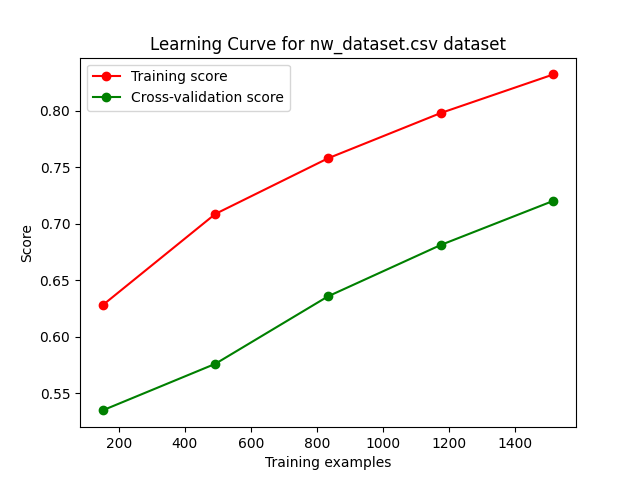
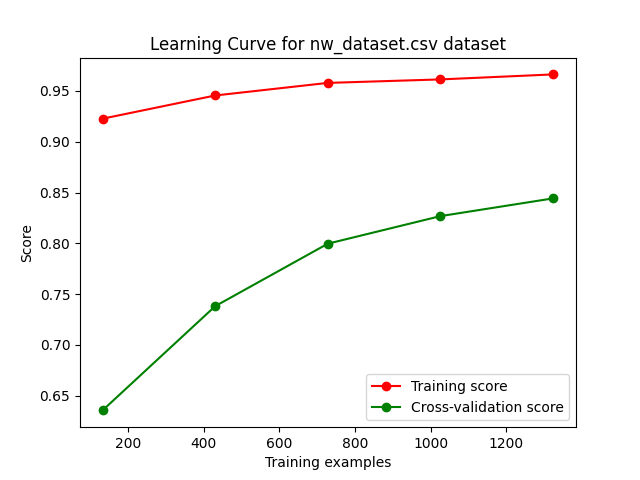
update png

diff --git a/TP2/disambiguation/test.py b/TP2/disambiguation/test.py
@@ -14,7 +14,7 @@ from nltk.stem import LancasterStemmer
 from nltk.tokenize import word_tokenize
 from openpyxl import Workbook
 from nltk.corpus import stopwords
-from sklearn.model_selection import cross_validate
+from sklearn.model_selection import cross_validate, RandomizedSearchCV
 from joblib import dump, load
 from sklearn.ensemble import RandomForestClassifier
 from sklearn import svm
@@ -45,10 +45,10 @@ CONFIG = {
         'mlp': {
             'solver': 'adam',  # ['lbfgs', 'sgd', 'adam']
             'hidden_layer_sizes': (50, 100)
-            , 'activation': 'tanh'  # ['relu','logistic','tanh']
+            , 'activation': 'relu'  # ['relu','logistic','tanh']
         },
         'dt': {
-            'depth': 50
+            'depth': 500
         }},
     'nw': {
         'filename': 'nw_dataset.csv',
@@ -69,7 +69,7 @@ CONFIG = {
         'mlp': {
             'solver': 'adam',  # ['lbfgs', 'sgd', 'adam']
             'hidden_layer_sizes': (50, 100),
-            'activation': 'tanh'  # ['relu','logistic','tanh']
+            'activation': 'relu'  # ['relu','logistic','tanh']
         },
         'dt': {
             'depth': 500
@@ -293,15 +293,14 @@ models = ['naive_bayes', 'decision_tree', 'random_forest', 'svm', 'mlp']
 # Draw the learing curve for each algorithm
 def draw_learning_curve(dataset, classifier):
     # load data
-    df = pd.read_csv(CONFIG[dataset]['filename'], header=None)
-    X = df.iloc[:, 1]
-    y = df.iloc[:, 0]
-    # split data into training and test sets
-    X_train, X_test, y_train, y_test = train_test_split(X, y, test_size=0.2, random_state=0)
-    # vectorize the text
-    vectorizer = TfidfVectorizer()
-    X_train = vectorizer.fit_transform(X_train)
-    X_test = vectorizer.transform(X_test)
+    y = data[0].values
+    X = data[1]
+    if CONFIG[current_dataset]['vectorizer'] == 'count':
+        vectorizer = CountVectorizer(ngram_range=(1, 2))
+    else:
+        vectorizer = TfidfVectorizer(ngram_range=(1, 2))
+    X = vectorizer.fit_transform(X)
+    X_train, X_test, y_train, y_test = train_test_split(X, y, test_size=0.3, random_state=0)
     # draw the learning curve
     train_sizes, train_scores, test_scores = learning_curve(classifier, X_train, y_train, cv=5, n_jobs=-1,
                                                             train_sizes=np.linspace(.1, 1.0, 5))
@@ -315,6 +314,9 @@ def draw_learning_curve(dataset, classifier):
     plt.ylabel('Score')
     plt.savefig('img/' + CONFIG[dataset]['filename'] + '_' + classifier.__class__.__name__ + '.png')
     plt.clf()
+
+
+# Draw comparison of the accuracy curve of each algorithm
 
 
 
@@ -335,7 +337,13 @@ for current_dataset in datasets:
         vectorizer = TfidfVectorizer(ngram_range=(1, 2))
     X = vectorizer.fit_transform(X)
     X_train, X_test, y_train, y_test = train_test_split(X, y, test_size=0.3, random_state=0)
+
+    names = []
+    scores = []
+
     for current_model in models:
+        classifier = ''
+        label = ''
         if current_model == 'naive_bayes':
             nb = MultinomialNB()
             nb.fit(X_train, y_train)
@@ -344,7 +352,10 @@ for current_dataset in datasets:
             f1 = f1_score(y_test, y_pred, average='macro')
             print('naive_bayes Accuracy: ' + str('{:.4f}'.format(acc)))
 
-            draw_learning_curve(current_dataset, nb)
+            classifier = nb
+            label = 'Naive Bayes'
+
+            # draw_learning_curve(current_dataset, nb)
 
         elif current_model == 'decision_tree':
             dt = DecisionTreeClassifier(max_depth=CONFIG[current_dataset]['dt']['depth'])
@@ -353,28 +364,44 @@ for current_dataset in datasets:
             acc = accuracy_score(y_test, y_pred)
             f1 = f1_score(y_test, y_pred, average='macro')
             print('decision_tree Accuracy: ' + str('{:.4f}'.format(acc)))
+            # random_grid = {'max_depth': range(1, 1000)}
+            # dt_random = RandomizedSearchCV(estimator=dt, param_distributions=random_grid, n_iter=100, cv=3, verbose=2,
+            #                                  random_state=42, n_jobs=-1)
+            # dt_random.fit(X_train, y_train)
+            # print(dt_random.best_params_)
+            # print(dt_random.best_score_)
 
-            draw_learning_curve(current_dataset, dt)
+            classifier = dt
+            label = 'Decision Tree'
+
+            # draw_learning_curve(current_dataset, dt)
 
         elif current_model == 'random_forest':
             clf = RandomForestClassifier(max_depth=12, random_state=42)
-            clf = clf.fit(X_train, y_train)
+            clf.fit(X_train, y_train)
             y_pred = clf.predict(X_test)
             acc = accuracy_score(y_test, y_pred)
             f1 = f1_score(y_test, y_pred, average='macro')
             print('random_forest Accuracy: ' + str('{:.4f}'.format(acc)))
 
-            draw_learning_curve(current_dataset, clf)
+            classifier = clf
+            label = 'Random Forest'
+
+            # draw_learning_curve(current_dataset, clf)
 
         elif current_model == 'svm':
             kernels = ['sigmoid', 'rbf']
-            clf = svm.SVC(kernel=kernels[1]).fit(X_train, y_train)
+            clf = svm.SVC(kernel=kernels[1])
+            clf.fit(X_train, y_train)
             y_pred = clf.predict(X_test)
             acc = accuracy_score(y_test, y_pred)
             f1 = f1_score(y_test, y_pred, average='macro')
             print('svm Accuracy: ' + str('{:.4f}'.format(acc)))
 
-            draw_learning_curve(current_dataset, clf)
+            classifier = clf
+            label = 'SVM'
+
+            # draw_learning_curve(current_dataset, clf)
 
         elif current_model == 'mlp':
             mlp = MLPClassifier(hidden_layer_sizes=CONFIG[current_dataset]['mlp']['hidden_layer_sizes']
@@ -386,5 +413,30 @@ for current_dataset in datasets:
             acc = accuracy_score(y_test, y_pred)
             f1 = f1_score(y_test, y_pred, average='macro')
             print('mlp Accuracy: ' + str('{:.4f}'.format(acc)))
+            # random_grid = {'activation': ['tanh', 'relu', 'logistic'],
+            #                 'solver': ['lbfgs', 'sgd', 'adam']}
+            # mlp_random = RandomizedSearchCV(estimator=mlp, param_distributions=random_grid, n_iter=100,
+            #                                   cv=3, verbose=2, random_state=42, n_jobs=-1)
+            # mlp_random.fit(X_train, y_train)
+            # print(mlp_random.best_params_)
+            # print(mlp_random.best_score_)
 
-            draw_learning_curve(current_dataset, mlp)
+            classifier = mlp
+            label = 'MLP'
+
+            # draw_learning_curve(current_dataset, mlp)
+
+        train_sizes, train_scores, test_scores = learning_curve(classifier, X_train, y_train, cv=5, n_jobs=-1,
+                                                            train_sizes=np.linspace(.1, 1.0, 5))
+        # train_scores_mean = np.mean(train_scores, axis=1)
+        test_scores_mean = np.mean(test_scores, axis=1)
+        # plt.plot(train_sizes, train_scores_mean, 'o-', label="Training score")
+        plt.plot(train_sizes, test_scores_mean, 'o-', label=label)
+
+    plt.legend(loc="best")
+    plt.legend()
+    plt.title('Comparison test score for ' + CONFIG[current_dataset]['filename'] + ' dataset')
+    plt.xlabel('Training examples')
+    plt.ylabel('Score')
+    plt.savefig('img/' + CONFIG[current_dataset]['filename'] + '_comparison.png')
+    plt.clf()
